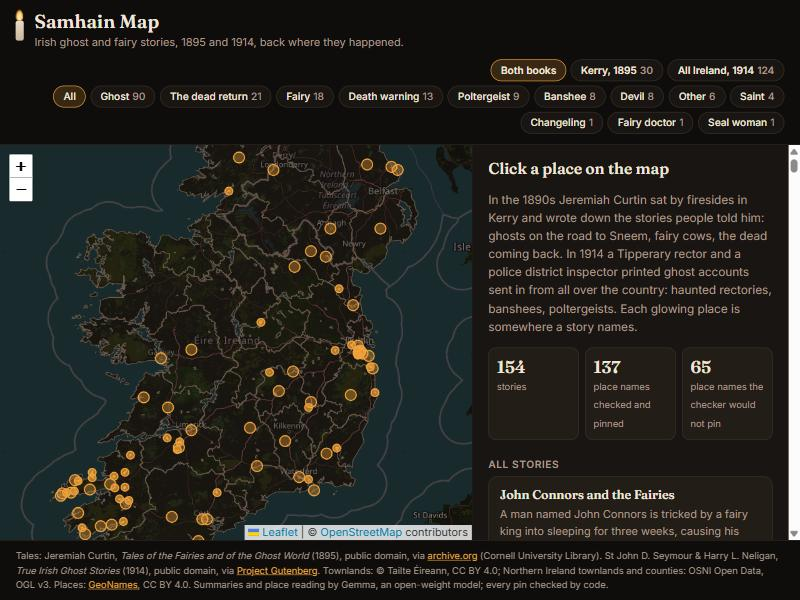
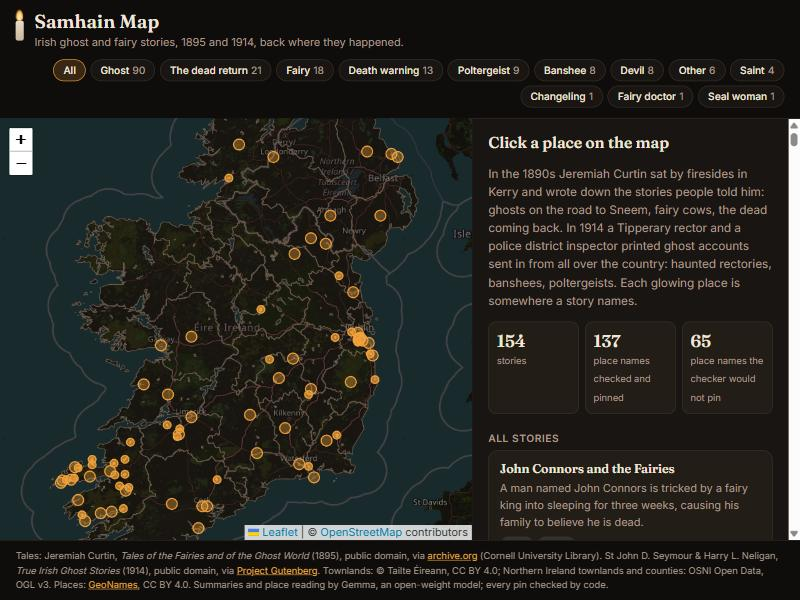
Remove the book filter and book labels from story cards

diff --git a/web/app.js b/web/app.js
@@ -2,11 +2,11 @@
 const DATA_VERSION = 4;
 const BOOKS = {
   curtin1895: {
-    short: "Kerry, 1895", source: "Jeremiah Curtin, Tales of the Fairies and of the Ghost World (1895)",
+    source: "Jeremiah Curtin, Tales of the Fairies and of the Ghost World (1895)",
     link: (t) => t.pages && `<a href="https://archive.org/details/cu31924029910563/page/${t.pages[0]}/mode/1up" target="_blank" rel="noopener">Read the 1895 page scan (p. ${t.pages[0]})</a>`,
   },
   seymour1914: {
-    short: "All Ireland, 1914", source: "Seymour & Neligan, True Irish Ghost Stories (1914)",
+    source: "Seymour & Neligan, True Irish Ghost Stories (1914)",
     link: () => `<a href="https://www.gutenberg.org/ebooks/14099" target="_blank" rel="noopener">Read the 1914 book on Project Gutenberg</a>`,
   },
 };
@@ -17,7 +17,7 @@ const BEING_LABEL = {
   poltergeist: "Poltergeist", death_warning: "Death warning",
 };
 
-const state = { tales: [], byId: new Map(), places: null, filter: null, book: null, layer: null };
+const state = { tales: [], byId: new Map(), places: null, filter: null, layer: null };
 const panel = document.getElementById("panel-body");
 
 const map = L.map("map", { zoomControl: true, minZoom: 6 }).setView([53.4, -8.0], 7);
@@ -31,15 +31,13 @@ const isPinned = (p) => p.status?.startsWith("pinned");
 
 const esc = (s) => String(s ?? "").replace(/[&<>"']/g, (c) => ({ "&": "&amp;", "<": "&lt;", ">": "&gt;", '"': "&quot;", "'": "&#39;" }[c]));
 const beingTags = (t) => t.beings.map((b) => `<span class="tag">${esc(BEING_LABEL[b] || b)}</span>`).join("");
-const inBook = (t) => !state.book || t.book === state.book;
-const visible = (t) => inBook(t) && (!state.filter || t.beings.includes(state.filter));
+const visible = (t) => !state.filter || t.beings.includes(state.filter);
 
 function taleCard(t) {
   return `<button class="tale-card" data-tale="${t.id}">
     <div class="t">${esc(t.title)}</div>
     <div class="s">${esc(t.summary || "")}</div>
     <div class="tags">${beingTags(t)}</div>
-    <div class="src">${esc(BOOKS[t.book].short)}</div>
   </button>`;
 }
 
@@ -50,15 +48,14 @@ function bindCards() {
 }
 
 function showHome() {
-  const shown = state.tales.filter(inBook);
-  const all = shown.flatMap((t) => t.places);
+  const all = state.tales.flatMap((t) => t.places);
   const ok = all.filter(isPinned).length;
   const thrown = all.filter((p) => !isPinned(p) && !p.status?.startsWith("listed")).length;
   panel.innerHTML = `
     <h2>Click a place on the map</h2>
     <p class="lede">In the 1890s Jeremiah Curtin sat by firesides in Kerry and wrote down the stories people told him: ghosts on the road to Sneem, fairy cows, the dead coming back. In 1914 a Tipperary rector and a police district inspector printed ghost accounts sent in from all over the country: haunted rectories, banshees, poltergeists. Each glowing place is somewhere a story names.</p>
     <div class="stat-row">
-      <div class="stat"><b>${shown.length}</b><span>stories</span></div>
+      <div class="stat"><b>${state.tales.length}</b><span>stories</span></div>
       <div class="stat"><b>${ok}</b><span>place names checked and pinned</span></div>
       <div class="stat"><b>${thrown}</b><span>place names the checker would not pin</span></div>
     </div>
@@ -138,22 +135,9 @@ function drawPlaces() {
   });
 }
 
-function drawBooks() {
-  const el = document.getElementById("books");
-  const n = (k) => state.tales.filter((t) => t.book === k).length;
-  el.innerHTML = [`<button class="chip" data-k="" aria-pressed="${!state.book}">Both books</button>`]
-    .concat(Object.entries(BOOKS).map(([k, b]) => `<button class="chip" data-k="${k}" aria-pressed="${state.book === k}">${esc(b.short)}<span class="n">${n(k)}</span></button>`))
-    .join("");
-  el.querySelectorAll(".chip").forEach((c) => c.addEventListener("click", () => {
-    state.book = c.dataset.k || null;
-    state.filter = null;
-    drawBooks(); drawFilters(); drawPlaces(); showHome();
-  }));
-}
-
 function drawFilters() {
   const counts = {};
-  state.tales.filter(inBook).forEach((t) => t.beings.forEach((b) => (counts[b] = (counts[b] || 0) + 1)));
+  state.tales.forEach((t) => t.beings.forEach((b) => (counts[b] = (counts[b] || 0) + 1)));
   const keys = Object.keys(counts).sort((a, b) => counts[b] - counts[a]);
   const el = document.getElementById("filters");
   el.innerHTML = [`<button class="chip" data-b="" aria-pressed="${!state.filter}">All</button>`]
@@ -177,7 +161,6 @@ async function init() {
   state.tales = tales;
   tales.forEach((t) => state.byId.set(t.id, t));
   state.places = places;
-  drawBooks();
   drawFilters();
   drawPlaces();
   showHome();

diff --git a/web/index.html b/web/index.html
@@ -8,7 +8,7 @@
   <link rel="stylesheet" href="https://cdnjs.cloudflare.com/ajax/libs/leaflet/1.9.4/leaflet.min.css">
   <link rel="preconnect" href="https://fonts.googleapis.com">
   <link href="https://fonts.googleapis.com/css2?family=Fraunces:opsz,wght@9..144,400;9..144,600&family=Inter:wght@400;500;600&display=swap" rel="stylesheet">
-  <link rel="stylesheet" href="style.css?v=3">
+  <link rel="stylesheet" href="style.css?v=4">
 </head>
 <body>
   <header class="top">
@@ -19,10 +19,7 @@
         <p>Irish ghost and fairy stories, 1895 and 1914, back where they happened.</p>
       </div>
     </div>
-    <div class="filter-rows">
-      <div class="filters" id="books" role="group" aria-label="Filter by book"></div>
-      <div class="filters" id="filters" role="group" aria-label="Filter by being"></div>
-    </div>
+    <div class="filters" id="filters" role="group" aria-label="Filter by being"></div>
   </header>
 
   <main class="layout">
@@ -43,6 +40,6 @@
   </footer>
 
   <script src="https://cdnjs.cloudflare.com/ajax/libs/leaflet/1.9.4/leaflet.min.js"></script>
-  <script src="app.js?v=4"></script>
+  <script src="app.js?v=5"></script>
 </body>
 </html>

diff --git a/web/style.css b/web/style.css
@@ -52,11 +52,8 @@ a { color: var(--flame); }
 @keyframes flicker { 0%,100% { opacity: 1; transform: translateX(-50%) scale(1); } 50% { opacity: .82; transform: translateX(-50%) scale(.92, 1.05); } }
 @media (prefers-reduced-motion: reduce) { .candle::before { animation: none; } }
 
-.filter-rows { display: flex; flex-direction: column; gap: 6px; align-items: flex-end; }
 .filters { display: flex; flex-wrap: wrap; gap: 6px; justify-content: flex-end; }
-#books .chip { font-weight: 600; }
-.tale-card .src { color: var(--muted); font-size: 12px; margin-top: 6px; }
-@media (max-width: 860px) { .filter-rows, .filters { align-items: flex-start; justify-content: flex-start; } }
+@media (max-width: 860px) { .filters { justify-content: flex-start; } }
 .chip {
   border: 1px solid var(--line); background: var(--surface); color: var(--text);
   border-radius: 999px; padding: 5px 12px; font: 500 13px var(--sans); cursor: pointer;

diff --git a/docs/post.md b/docs/post.md
@@ -18,13 +18,13 @@ So I built **Samhain Map**: click a place anywhere in Ireland and read the ghost
 
 ## What I Built
 
-![Samhain Map: all of Ireland with glowing marks where the stories happen, filters by book and by ghost, banshee, poltergeist and fairy, and a list of stories](https://raw.githubusercontent.com/SRG-Cy/samhain-map/main/docs/img/home.jpg)
+![Samhain Map: all of Ireland with glowing marks where the stories happen, filters by ghost, banshee, poltergeist and fairy, and a list of stories](https://raw.githubusercontent.com/SRG-Cy/samhain-map/main/docs/img/home.jpg)
 
 {{TALE VIEW SCREENSHOT OR GIF}}
 
 - **A map of Ireland** with a glowing mark at every place the stories happen: 154 stories, 80 places, 22 of the 32 counties, north and south. Click one and you get the stories set there.
 - **Each story** has a one-line summary, the line that shows its ghost or fairy, every place it names with a ✓ or ✗ and the reason, the full text, and a link to the 1895 page scan or the 1914 book.
-- **Filters** by book (Kerry 1895, all Ireland 1914) and by what haunts the story: ghosts, banshees, poltergeists, death warnings, fairies, the dead returning, a seal woman.
+- **Filters** by what haunts the story: ghosts, banshees, poltergeists, death warnings, fairies, the dead returning, a seal woman.
 - **A count of what the checker refused**, right on the front page. That number matters to me as much as the pins.
 
 The rule behind all of it: **Gemma reads. Code decides.**
@@ -33,7 +33,7 @@ The rule behind all of it: **Gemma reads. Code decides.**
 
 **Live:** [samhain-map.onrender.com](https://samhain-map.onrender.com) (no sign-up, works on a phone)
 
-Try: filter by **Ghost**, click **Sneem**, open *The Ghost of Sneem*, then scroll to "Places in this tale". Then switch to **All Ireland, 1914**, zoom into Dublin Bay and click **Dún Laoghaire**: the 1914 story calls it Kingstown.
+Try: filter by **Ghost**, click **Sneem**, open *The Ghost of Sneem*, then scroll to "Places in this tale". Then zoom into Dublin Bay and click **Dún Laoghaire**: the 1914 story calls it Kingstown.
 
 ## Code
 
